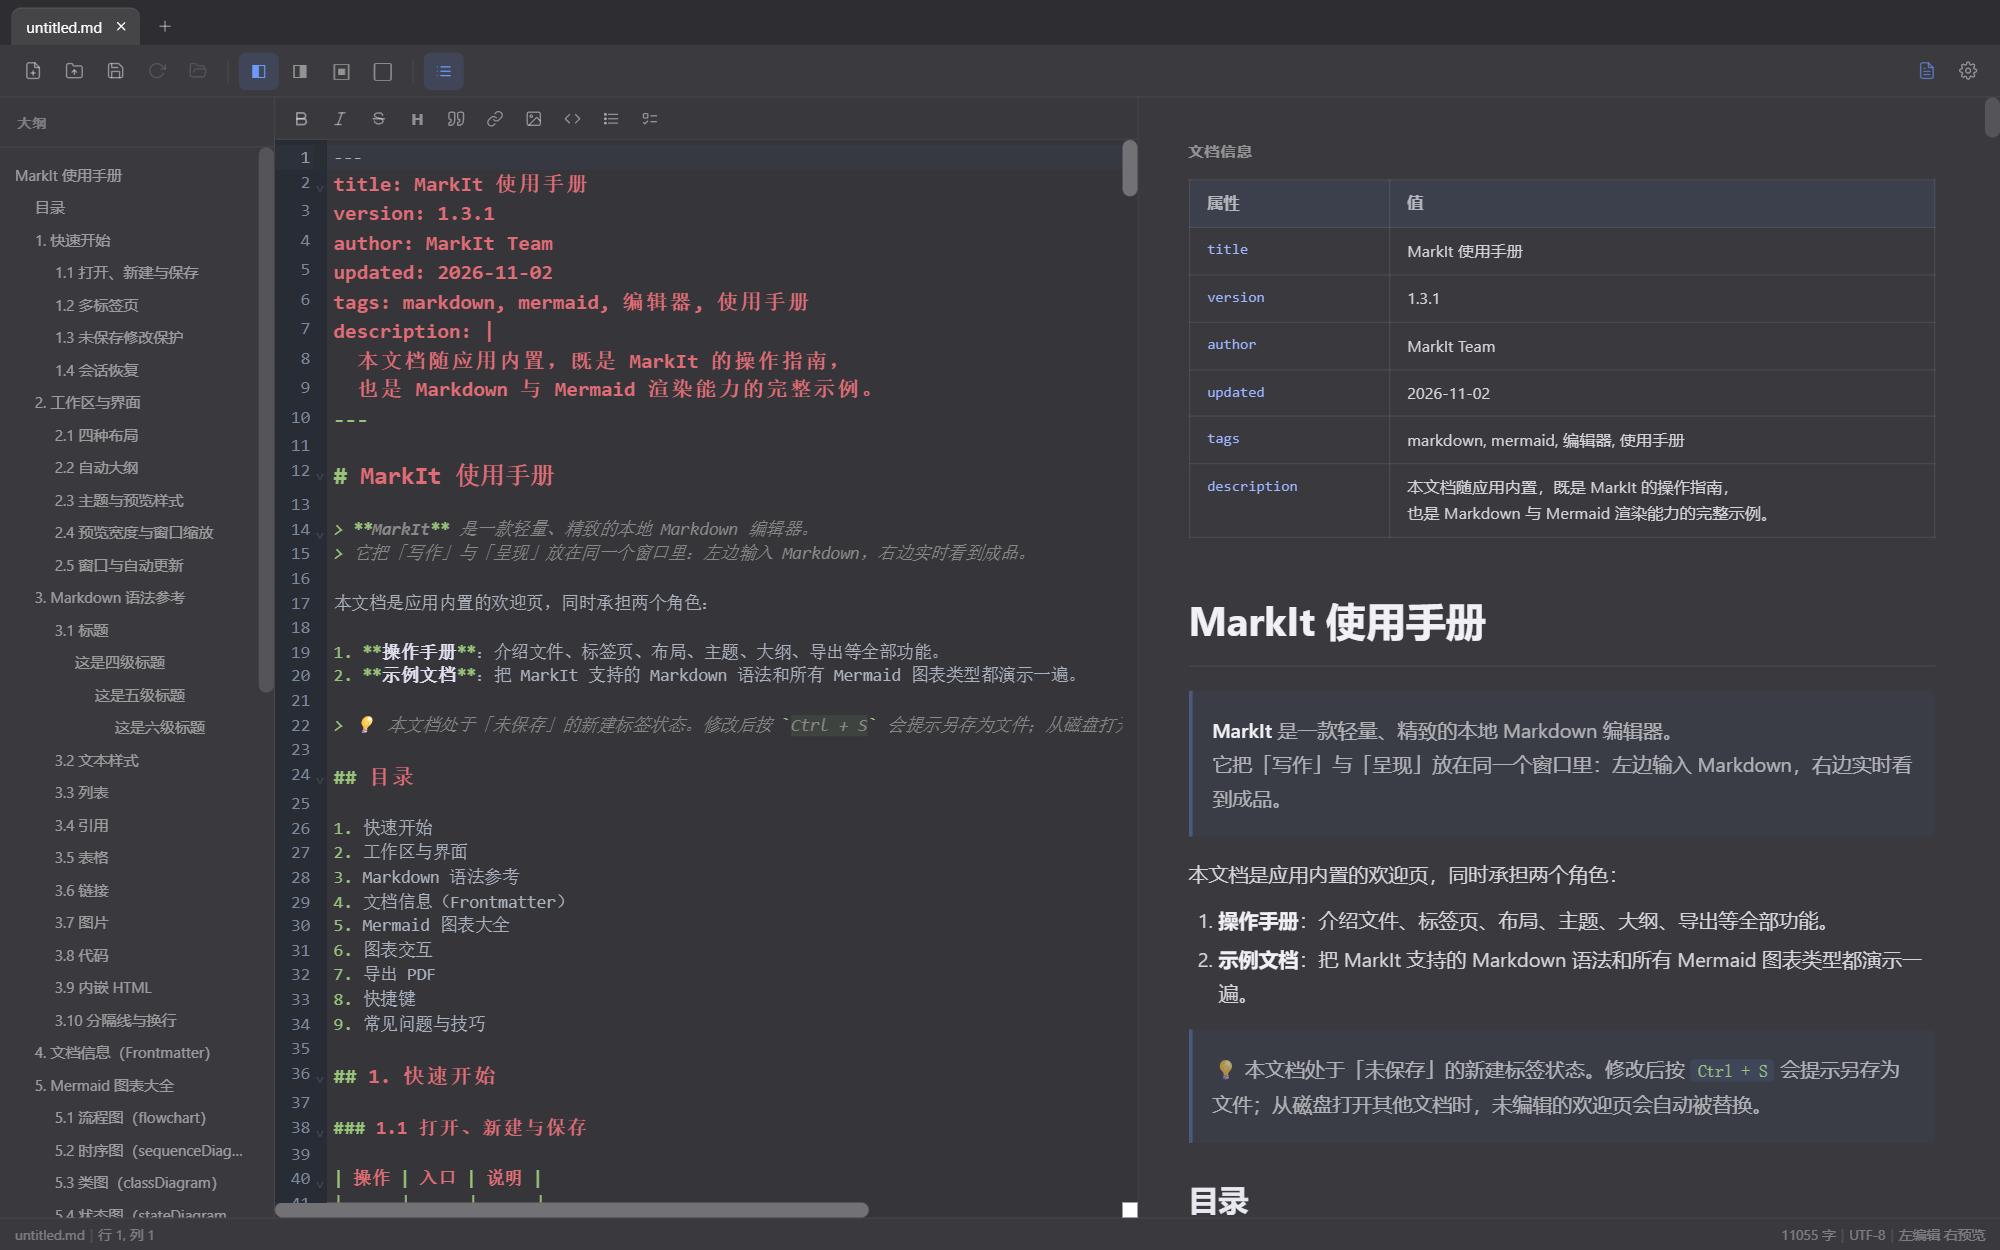
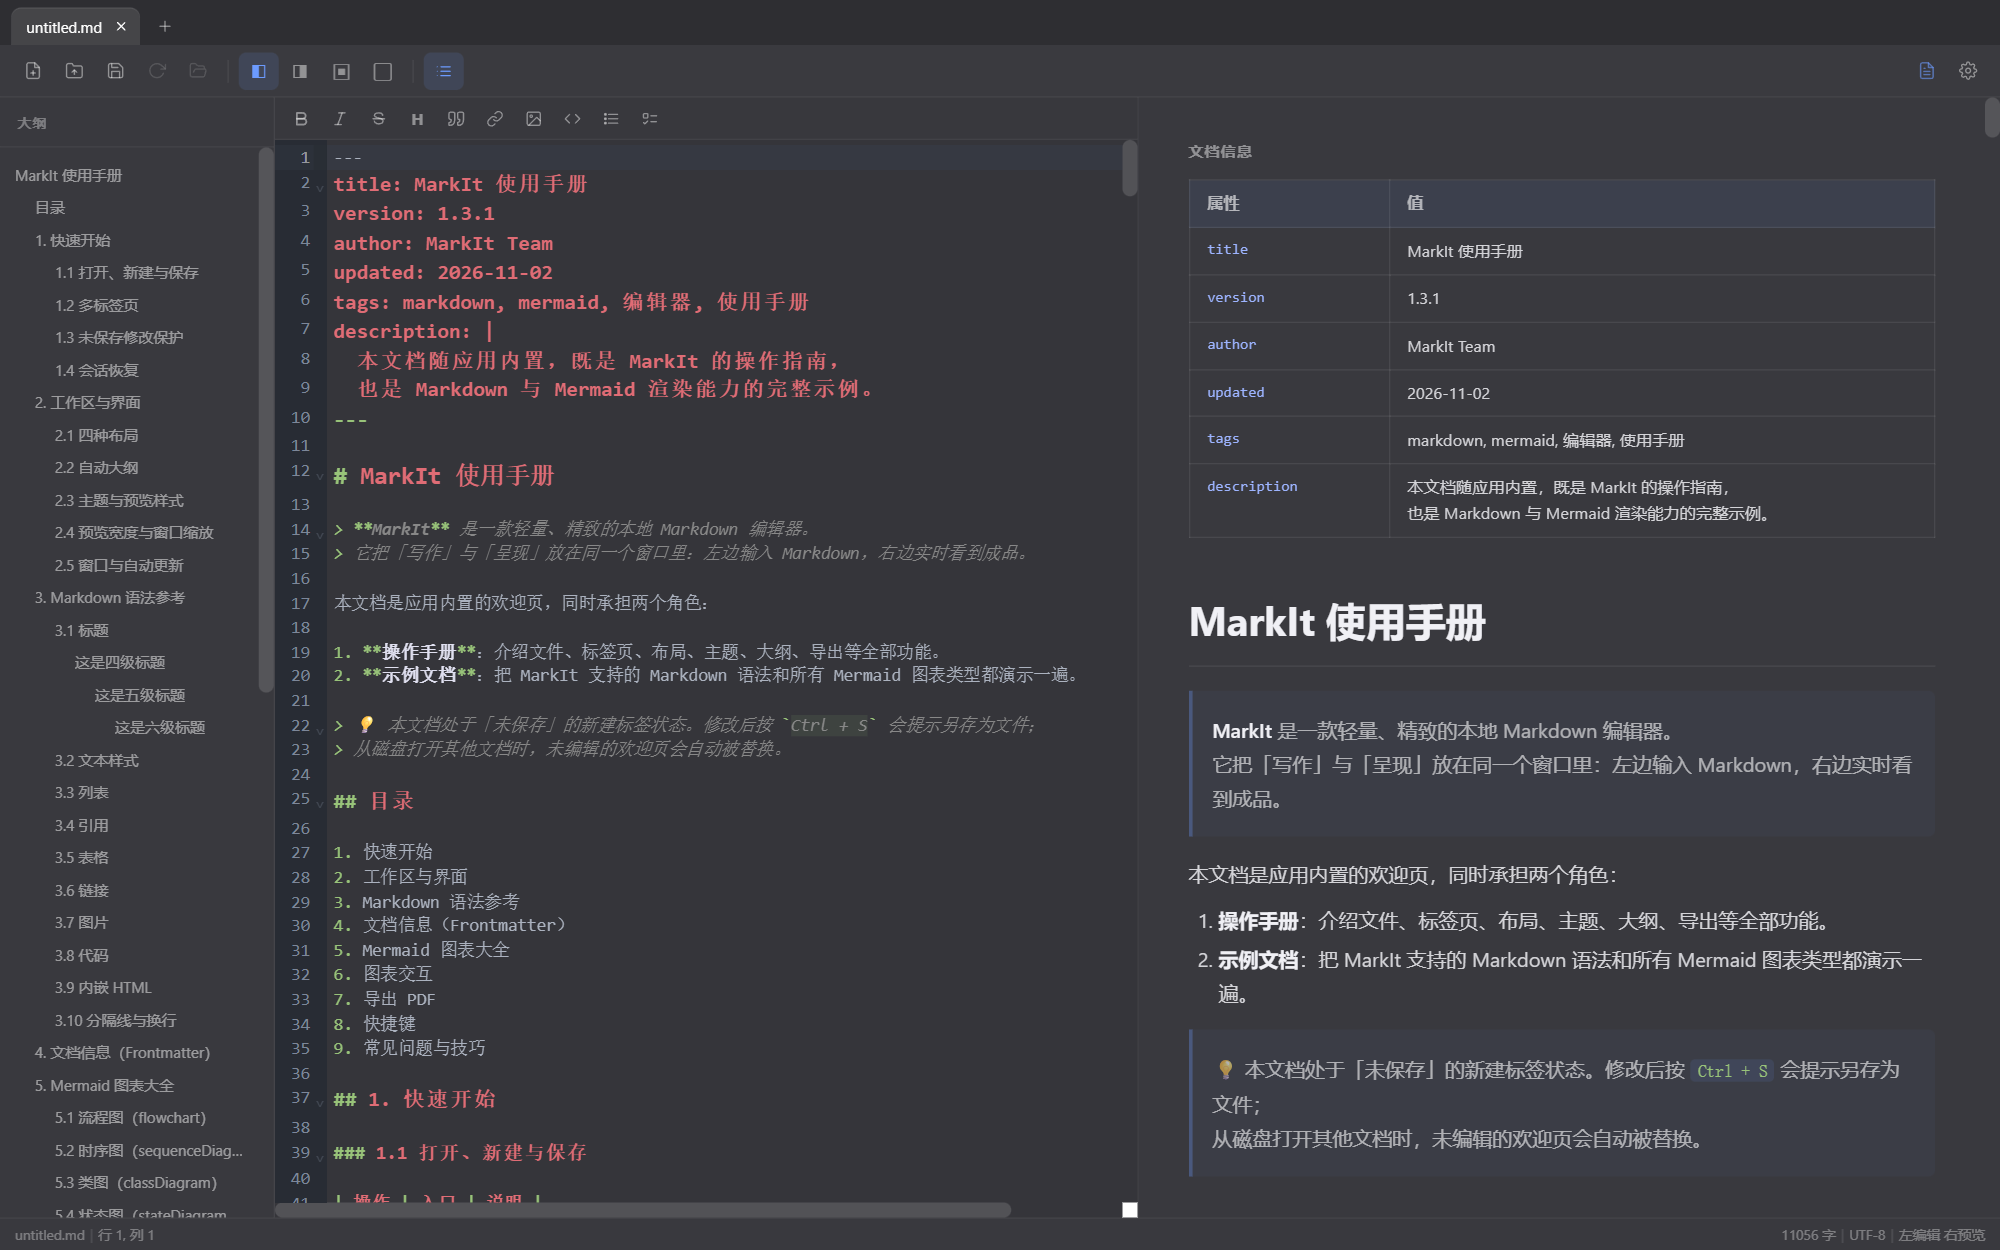
docs: 精简自动更新说明并更新使用手册截图
- README 自动更新说明不再提及 apphub 与强制更新
- 使用手册同步移除强制更新说明
- 更新 preview.png 预览截图

diff --git a/README.md b/README.md
@@ -101,10 +101,9 @@
 
 ### 自动更新
 
-- 接入 apphub 应用管理平台，启动约 3 秒后静默检测新版本
+- 启动约 3 秒后静默检测新版本
 - 设置页可手动检查更新并查看状态
 - 支持下载进度与速度展示、重启安装；更新重启后自动恢复原文档
-- 平台标记为强制更新的版本会自动下载并阻断旧版本继续使用（不提供「稍后」）
 
 ### 窗口与交互
 
@@ -196,7 +195,7 @@ mark-it/
 ├── src/
 │   ├── main/                          # Electron 主进程
 │   │   ├── index.ts                   # 窗口管理、IPC、文件操作、PDF 导出、会话读写
-│   │   └── updater.ts                 # apphub 自动更新
+│   │   └── updater.ts                 # 自动更新
 │   ├── preload/                       # 预加载脚本
 │   │   └── index.ts                   # contextBridge API
 │   ├── shared/                        # 主进程与渲染进程共用的纯类型

diff --git a/src/renderer/src/assets/welcome.md b/src/renderer/src/assets/welcome.md
@@ -115,7 +115,6 @@ description: |
 - 自动记住窗口大小、位置与最大化状态，下次启动时恢复。
 - 启动约 3 秒后静默检测新版本，也可以在设置页手动检查更新。
 - 下载过程显示进度与速度；下载完成后选择「重启安装」，重启后自动恢复原文档。
-- 平台标记为强制更新的版本会自动下载并阻断旧版本继续使用。
 
 ## 3. Markdown 语法参考
 
